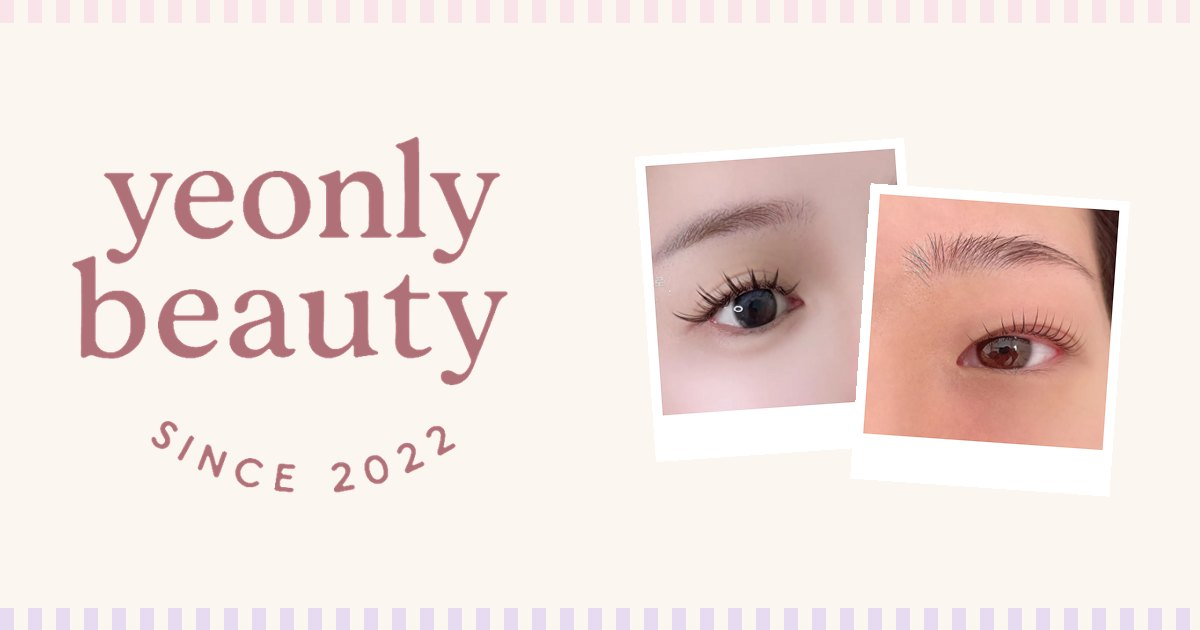
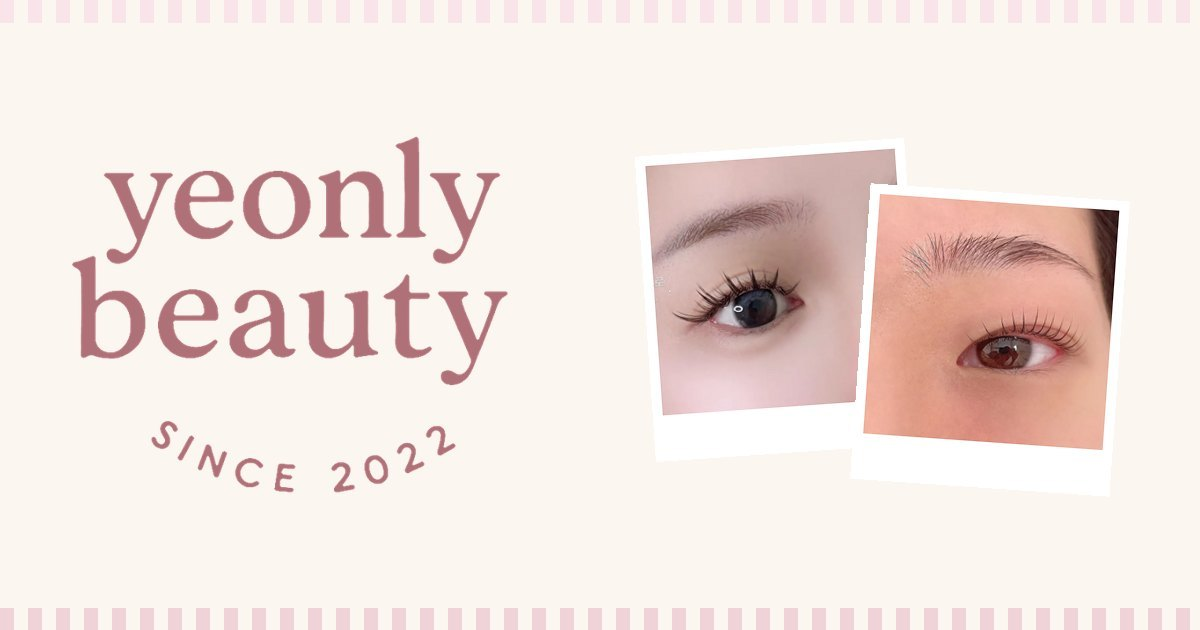
Add files via upload

Changed region(s): [[0.0, 0.9651, 1.0, 1.0]]

diff --git a/index.html b/index.html
@@ -42,9 +42,9 @@
 @font-face{ font-family:"YL Sans"; src:url("yl-pretendard-v01.woff2") format("woff2"); font-weight:300 700; font-display:swap; }
 :root{
   --paper:#FBF6F0;      /* 로고 바탕 크림 */
-  --lav:#F3ECF6;        /* 연보라 면 */
+  --lav:#F9EDEE;        /* 옅은 핑크 면 (v0.1.1 연보라 → 핑크 · 다올) */
   --pink:#F8E4E9;       /* 연분홍 줄무늬 */
-  --lav-s:#E6DBF0;      /* 연보라 줄무늬 */
+  --lav-s:#F0D3D9;      /* 진한 쪽 핑크 줄무늬 (v0.1.1) */
   --ink:#3B2F33;        /* 11.9:1 */
   --soft:#6E6066;       /* 5.5:1 */
   --rose:#B07078;       /* 로고 장미색 — 큰 글자 · 장식만(3.6:1) */
@@ -119,8 +119,8 @@ h2{ font-family:var(--sans); font-weight:600; font-size:clamp(1.5rem, 4.6vw, 2.2
 /* 폴라로이드 */
 .pola{ margin:0; padding:10px 10px 34px; background:#FFFFFF; box-shadow:0 10px 26px rgba(59,47,51,.12); border-radius:var(--r); position:relative; }
 .pola img{ width:100%; aspect-ratio:1/1; object-fit:cover; }
-.pola::before{ content:""; position:absolute; top:-10px; left:50%; width:70px; height:22px; transform:translateX(-50%) rotate(-3deg); background:rgba(230,219,240,.85); }
-.pola.pk::before{ background:rgba(248,228,233,.9); }
+.pola::before{ content:""; position:absolute; top:-10px; left:50%; width:70px; height:22px; transform:translateX(-50%) rotate(-3deg); background:rgba(240,211,217,.85); }
+.pola.pk::before{ background:rgba(244,232,218,.92); }
 .pola::after{ content:"\2726"; position:absolute; right:12px; bottom:8px; color:var(--rose); font-size:.85rem; }
 .stack{ position:relative; display:grid; grid-template-columns:repeat(6, minmax(0,1fr)); align-items:start; padding:16px 4px 0; }
 .stack .pola:nth-child(1){ grid-column:1 / span 4; grid-row:1; transform:rotate(-4deg); z-index:2; }
@@ -134,7 +134,7 @@ h2{ font-family:var(--sans); font-weight:600; font-size:clamp(1.5rem, 4.6vw, 2.2
 }
 
 /* Cormorant 숫자는 기본이 올드스타일 → 가격 · 번호는 세운 숫자로 */
-.steps .pr, .steps .no, .ext .pr, .label{ font-variant-numeric:lining-nums; }
+.steps .pr, .steps .no, .steps h3 small, .ext .pr, .label, .price h3{ font-variant-numeric:lining-nums; }
 /* 펌 3단계 */
 .steps{ list-style:none; padding:0; margin:44px 0 0; display:grid; gap:14px; }
 .steps li{ position:relative; padding:24px 22px; background:#FFFFFF; border:1px solid var(--line); border-radius:var(--r); }
